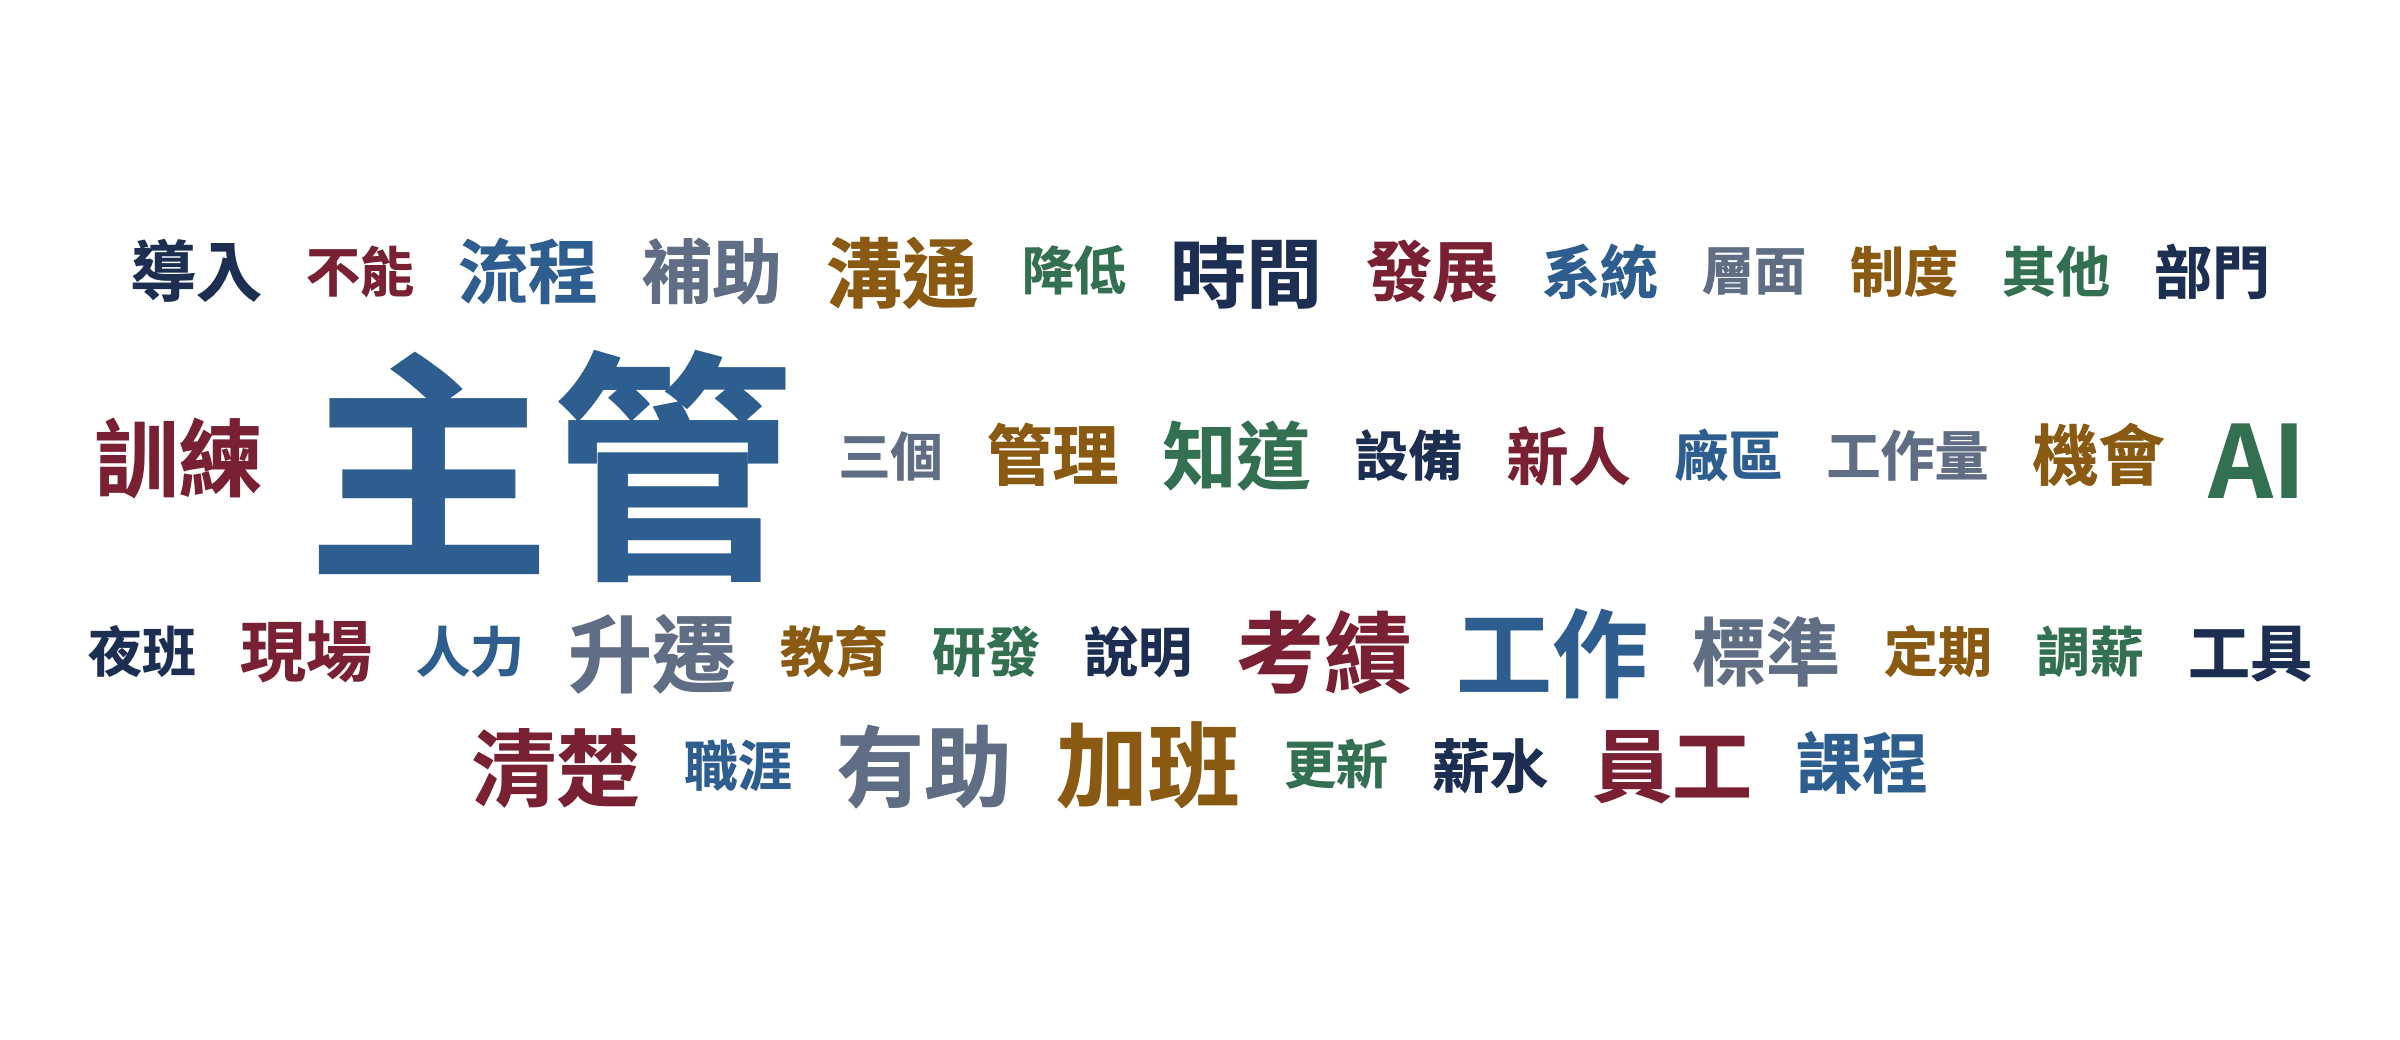
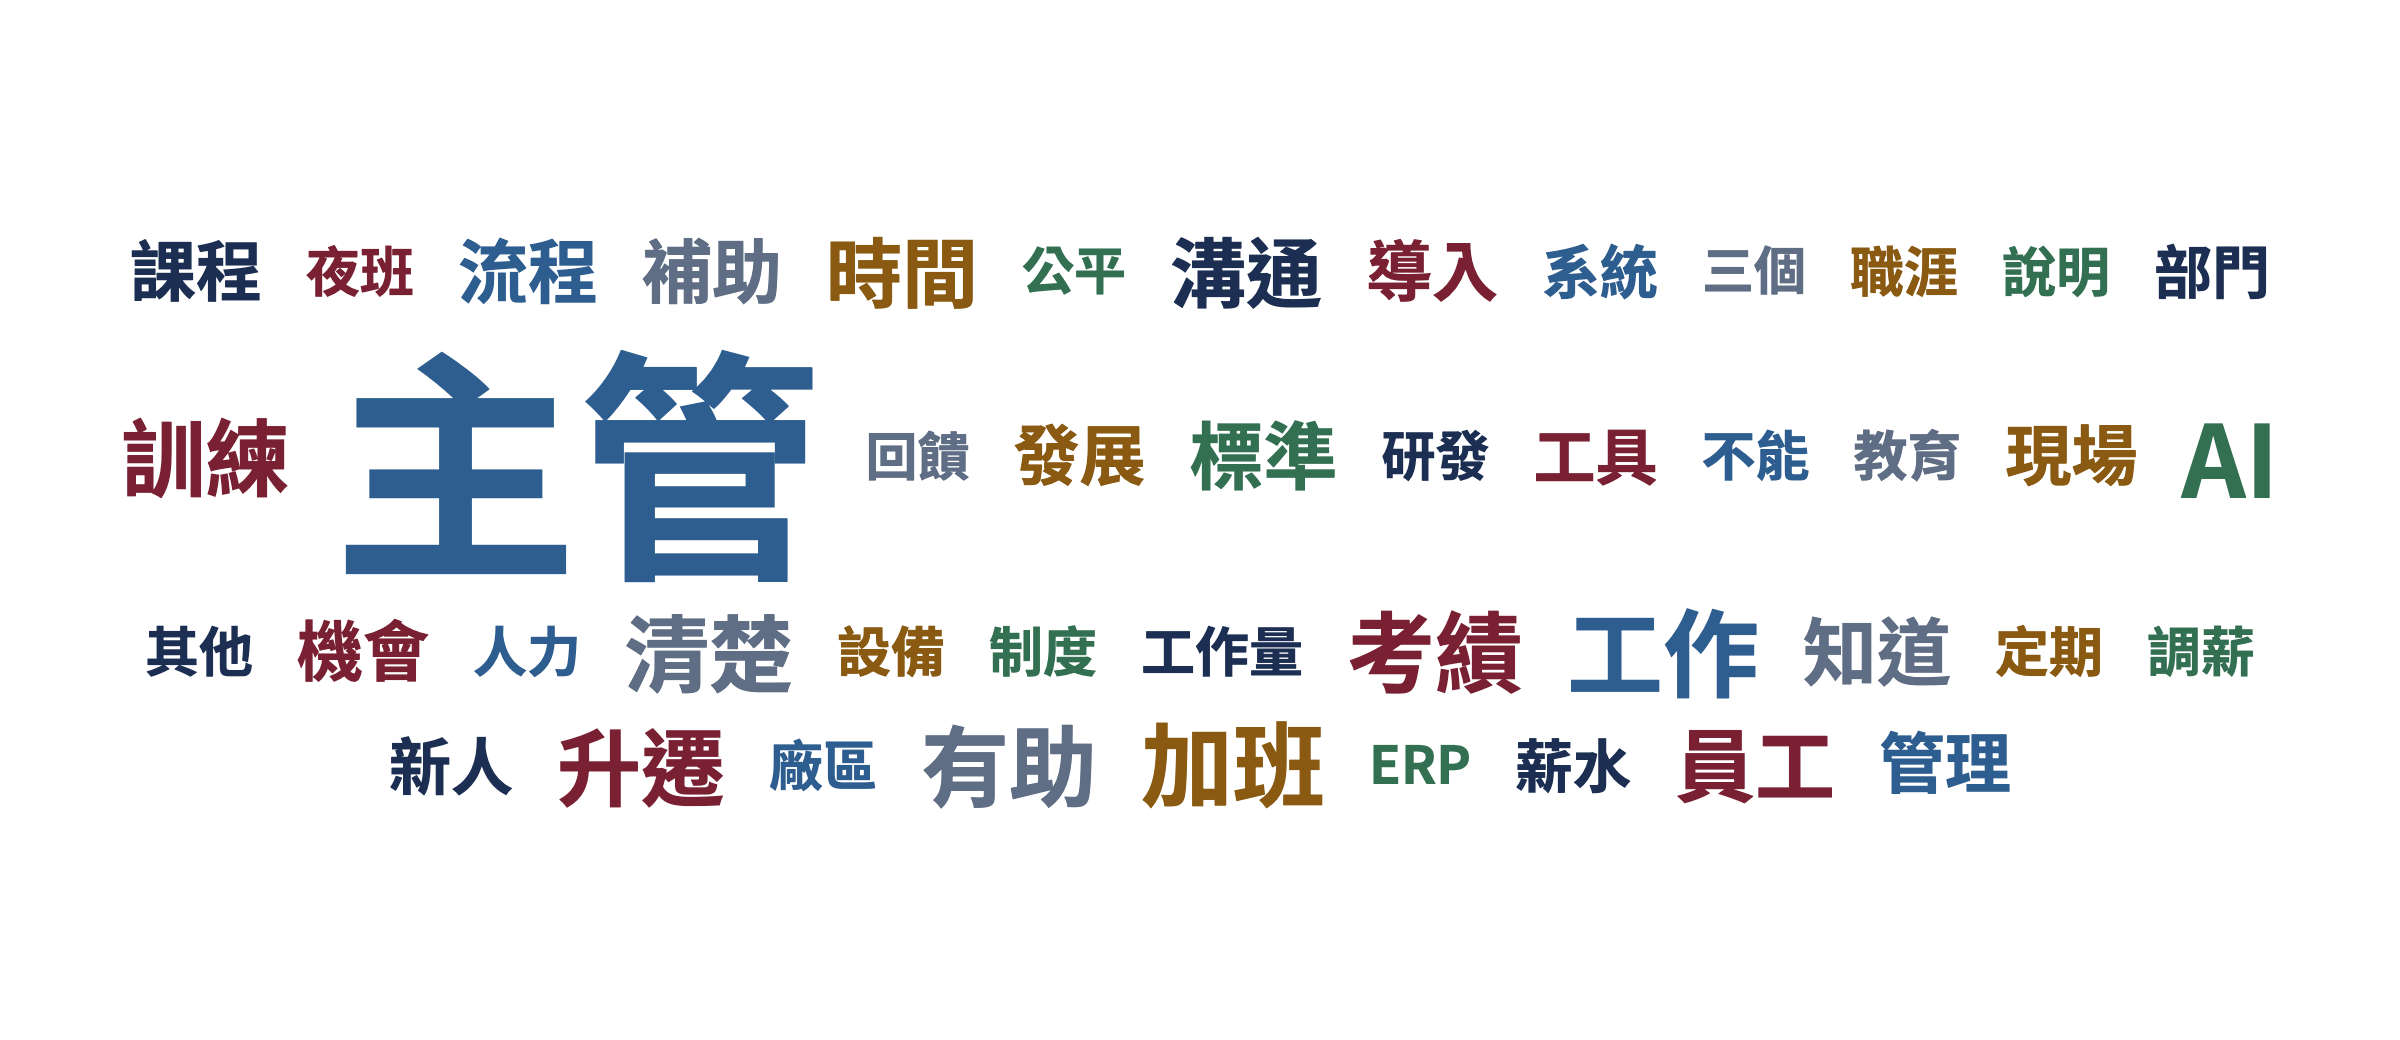
update

diff --git a/Handout/Topic09_開放題分析/Topic09_開放題分析_課程網站.html b/Handout/Topic09_開放題分析/Topic09_開放題分析_課程網站.html
@@ -485,7 +485,7 @@ table.cbk td{text-align:left !important;vertical-align:top}
   <h2 id="s2-2">2.2 OE1 的詞頻結果</h2>
   <div class="scrollx"><table class="mt">
     <tr><th>排名</th><th>詞</th><th>答案則數</th><th>排名</th><th>詞</th><th>答案則數</th></tr>
-    <tr><td>1</td><td>主管</td><td>58</td><td>11</td><td>溝通</td><td>13</td></tr><tr><td>2</td><td>AI</td><td>19</td><td>12</td><td>時間</td><td>13</td></tr><tr><td>3</td><td>工作</td><td>18</td><td>13</td><td>知道</td><td>12</td></tr><tr><td>4</td><td>加班</td><td>17</td><td>14</td><td>標準</td><td>12</td></tr><tr><td>5</td><td>有助</td><td>16</td><td>15</td><td>流程</td><td>11</td></tr><tr><td>6</td><td>考績</td><td>16</td><td>16</td><td>補助</td><td>11</td></tr><tr><td>7</td><td>清楚</td><td>15</td><td>17</td><td>發展</td><td>10</td></tr><tr><td>8</td><td>升遷</td><td>15</td><td>18</td><td>現場</td><td>10</td></tr><tr><td>9</td><td>訓練</td><td>15</td><td>19</td><td>機會</td><td>10</td></tr><tr><td>10</td><td>員工</td><td>14</td><td>20</td><td>管理</td><td>10</td></tr>
+    <tr><td>1</td><td>主管</td><td>58</td><td>11</td><td>時間</td><td>13</td></tr><tr><td>2</td><td>AI</td><td>19</td><td>12</td><td>溝通</td><td>13</td></tr><tr><td>3</td><td>工作</td><td>18</td><td>13</td><td>標準</td><td>12</td></tr><tr><td>4</td><td>加班</td><td>17</td><td>14</td><td>知道</td><td>12</td></tr><tr><td>5</td><td>有助</td><td>16</td><td>15</td><td>流程</td><td>11</td></tr><tr><td>6</td><td>考績</td><td>16</td><td>16</td><td>補助</td><td>11</td></tr><tr><td>7</td><td>升遷</td><td>15</td><td>17</td><td>導入</td><td>10</td></tr><tr><td>8</td><td>清楚</td><td>15</td><td>18</td><td>機會</td><td>10</td></tr><tr><td>9</td><td>訓練</td><td>15</td><td>19</td><td>現場</td><td>10</td></tr><tr><td>10</td><td>員工</td><td>14</td><td>20</td><td>發展</td><td>10</td></tr>
   </table></div>
   <p>第一名「主管」58 則，遠高於其他詞。文字雲依這張表畫出，「主管」會是最大的字（投影片有圖）。下面五個小節說明，這張表為什麼不能直接讀成「員工最在意主管」。</p>
   <h2 id="s2-3">2.3 盲點一：同義詞分散</h2>
